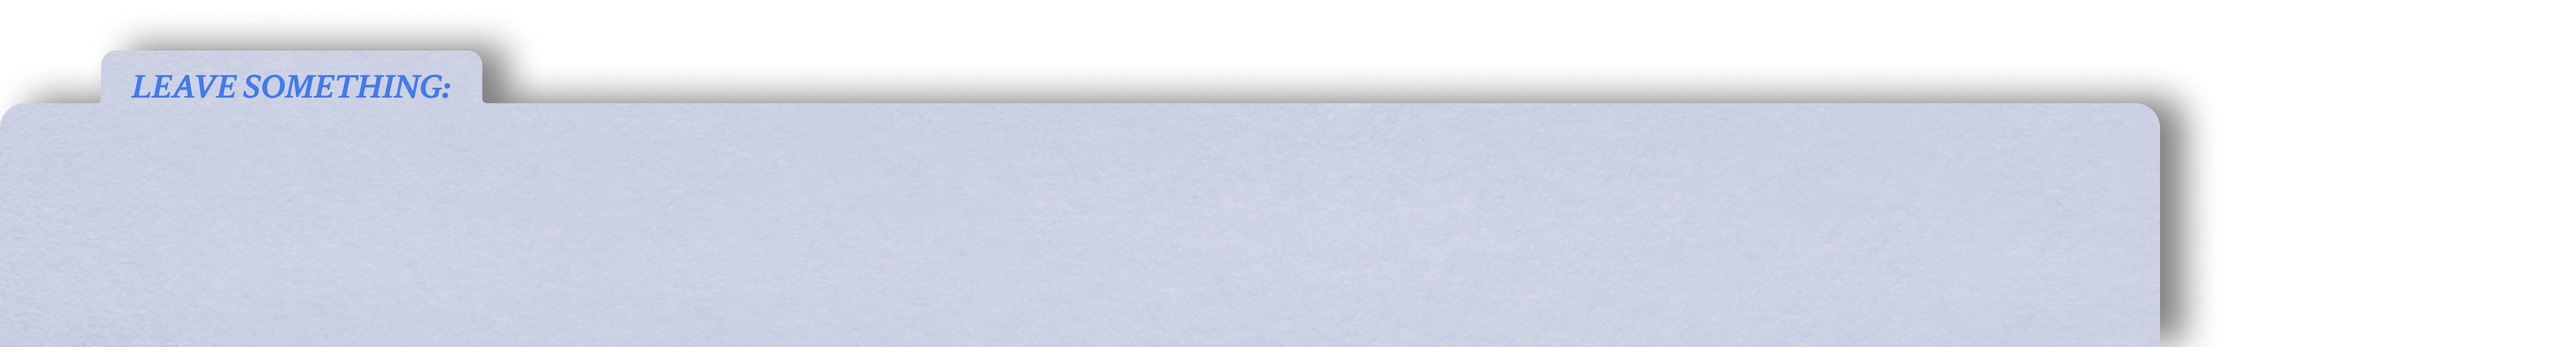
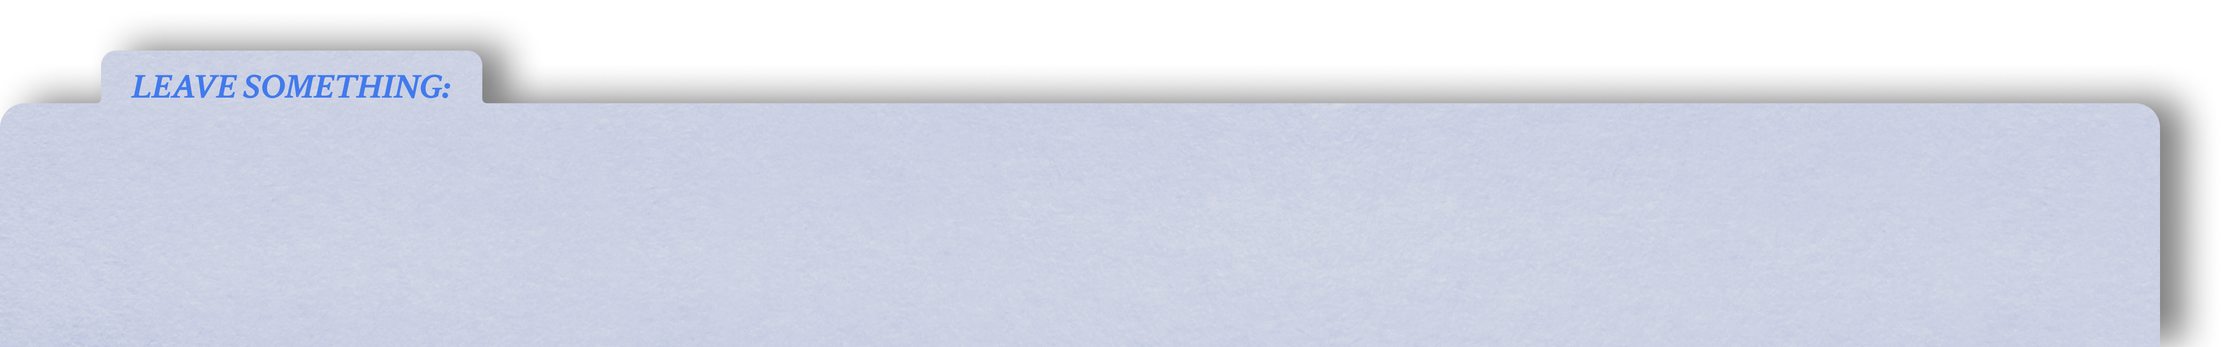
fix formatting + close button

Changed region(s): [[0.8118, 0.24, 0.9991, 1.0], [0.0312, 0.09, 0.2498, 0.3]]

diff --git a/styles.css b/styles.css
@@ -50,7 +50,7 @@ html, body {
 
 #scroll-wrapper {
   position: absolute;
-  top: 110px; 
+  top: 115px; 
   left: 0;
   right: 0;
   bottom: 0;
@@ -130,11 +130,11 @@ html, body {
   left: 0;
   width: 180px;
   height: 100vh;
-  background-color: rgb(236, 238, 245); /* light background like VS Code sidebar */
+  background-color: rgb(244, 246, 253);
   border-right: 1px solid rgb(210, 213, 224);
   z-index: 100;
   overflow: hidden;
-  padding-top: 100px;
+  padding-top: 30px;
   box-shadow: 0 0 10px rgb(169, 169, 170);
 }
 #sidebar-scroll {
@@ -147,8 +147,8 @@ html, body {
   display: none; /* Chrome/Safari */
 }
 .index-entry {
-  padding: 4px 10px;
-  font-size: 0.9rem;
+  padding: 4px 8px;
+  font-size: 0.95rem;
   color: rgb(115, 115, 118);
   cursor: pointer;
   border-bottom: 1px solid rgb(226,228,235);
@@ -658,8 +658,9 @@ i {
 
 #submission-bg {
   position: absolute;
+  left: 0;
   bottom: 0;
-  width: 100%;
+  width: 88%;
   height: auto;
   z-index: 1;
 }
@@ -872,6 +873,23 @@ i {
   font-style: italic;
 }
 
+/* close submission form button */
+.close-button {
+  position: absolute;
+  top: 130px;
+  right: 210px;
+  font-size: 0.9rem;
+  border: 1px solid rgba(10, 10, 10, 0.6);
+  border-radius: 3px;
+  padding: 1px 4px;
+  cursor: pointer;
+  z-index: 9999;
+}
+.close-button:hover {
+  font-style: italic;
+  background: rgb(232, 232, 232);
+}
+
 /* Base tag style */
 .tag-button {
   display: inline-block;
@@ -897,11 +915,11 @@ i {
 
 /* Past Lives */
 .tag-button[data-label="past-lives"] {
-  color: rgb(83, 160, 82);
-  border: 1px solid rgb(83, 160, 82);
+  color: rgb(205, 96, 105);
+  border: 1px solid rgb(205, 96, 105);
 }
 .tag-button[data-label="past-lives"]:hover {
-  background-color: rgb(83, 160, 82);
+  background-color: rgb(205, 96, 105);
   color: rgb(236, 238, 245);
 }
 

diff --git a/script.js b/script.js
@@ -18,6 +18,7 @@ const db = firebase.firestore();
 let unsubscribe = null;
 let sortDescending = true;
 
+/* keywords */
 function highlightKeywords(text) {
   return text
     .replace(/(I['’` ]?m sorry)/gi, '<span style="color:rgb(66, 132, 237)">$1</span>')
@@ -261,3 +262,32 @@ $(document).ready(function () {
     $(".error-message").text("").hide();
   }
 });
+
+// close submission form
+
+const submissionToggle = document.getElementById('close-submission-form');
+const submissionOverlay = document.getElementById('submission-overlay');
+const submissionBg = document.getElementById('submission-bg');
+const messageWrapper = document.querySelector('.message-wrapper');
+const inputStack = document.querySelector('.input-stack');
+
+let isSubmissionVisible = true;
+
+submissionToggle.addEventListener('click', () => {
+  if (isSubmissionVisible) {
+    submissionOverlay.style.display = 'none';
+    submissionBg.style.display = 'none';
+    if (messageWrapper) messageWrapper.style.display = 'none';
+    if (inputStack) inputStack.style.display = 'none';
+    submissionToggle.textContent = 'Leave Something';
+  } else {
+    submissionOverlay.style.display = 'flex';
+    submissionBg.style.display = 'block';
+    if (messageWrapper) messageWrapper.style.display = '';
+    if (inputStack) inputStack.style.display = '';
+    submissionToggle.textContent = 'X';
+  }
+
+  isSubmissionVisible = !isSubmissionVisible;
+});
+

diff --git a/index.html b/index.html
@@ -26,8 +26,7 @@
       <img src="assets/welcome.png" alt="welcome id="popup-image">
     </div>
   </div>
-  
-  
+    
   <body>
     <div id="sidebar-index">
       <div id="sidebar-scroll">
@@ -142,6 +141,7 @@
           <button type="post">Post !!</button>
         </form>                          
       </div>
+      <button id="close-submission-form" class="close-button">x</button>
     </div>
 
     <div id="spacer"></div>
